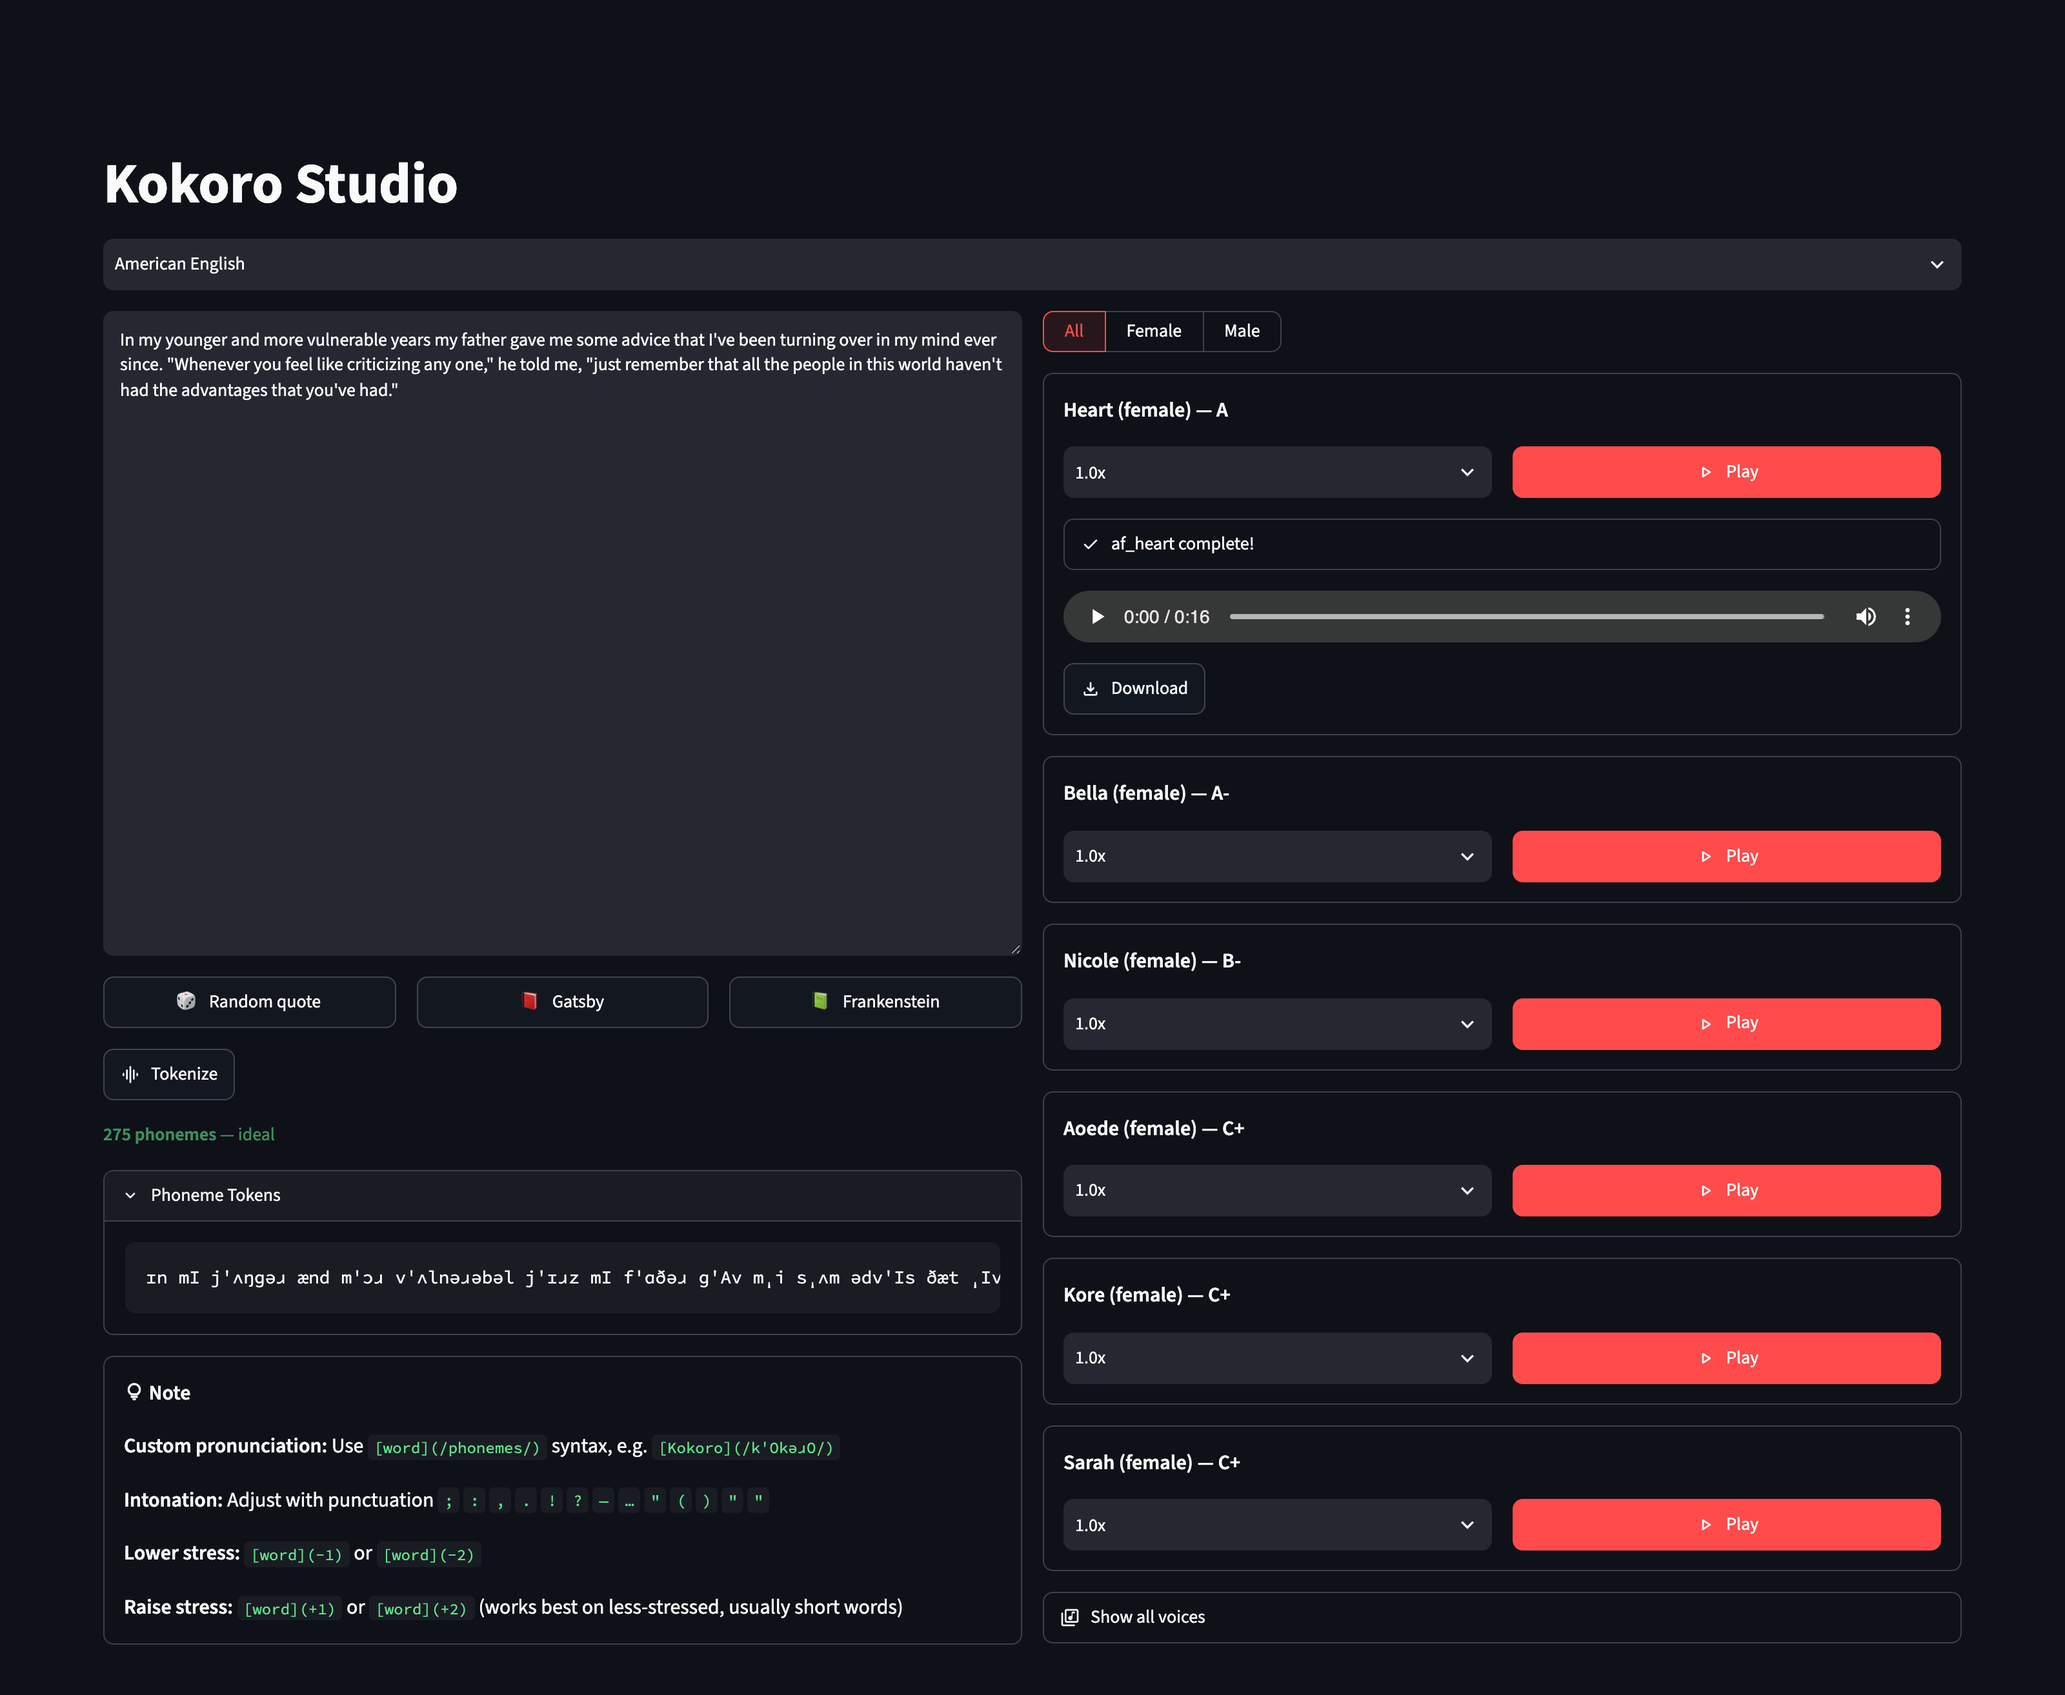
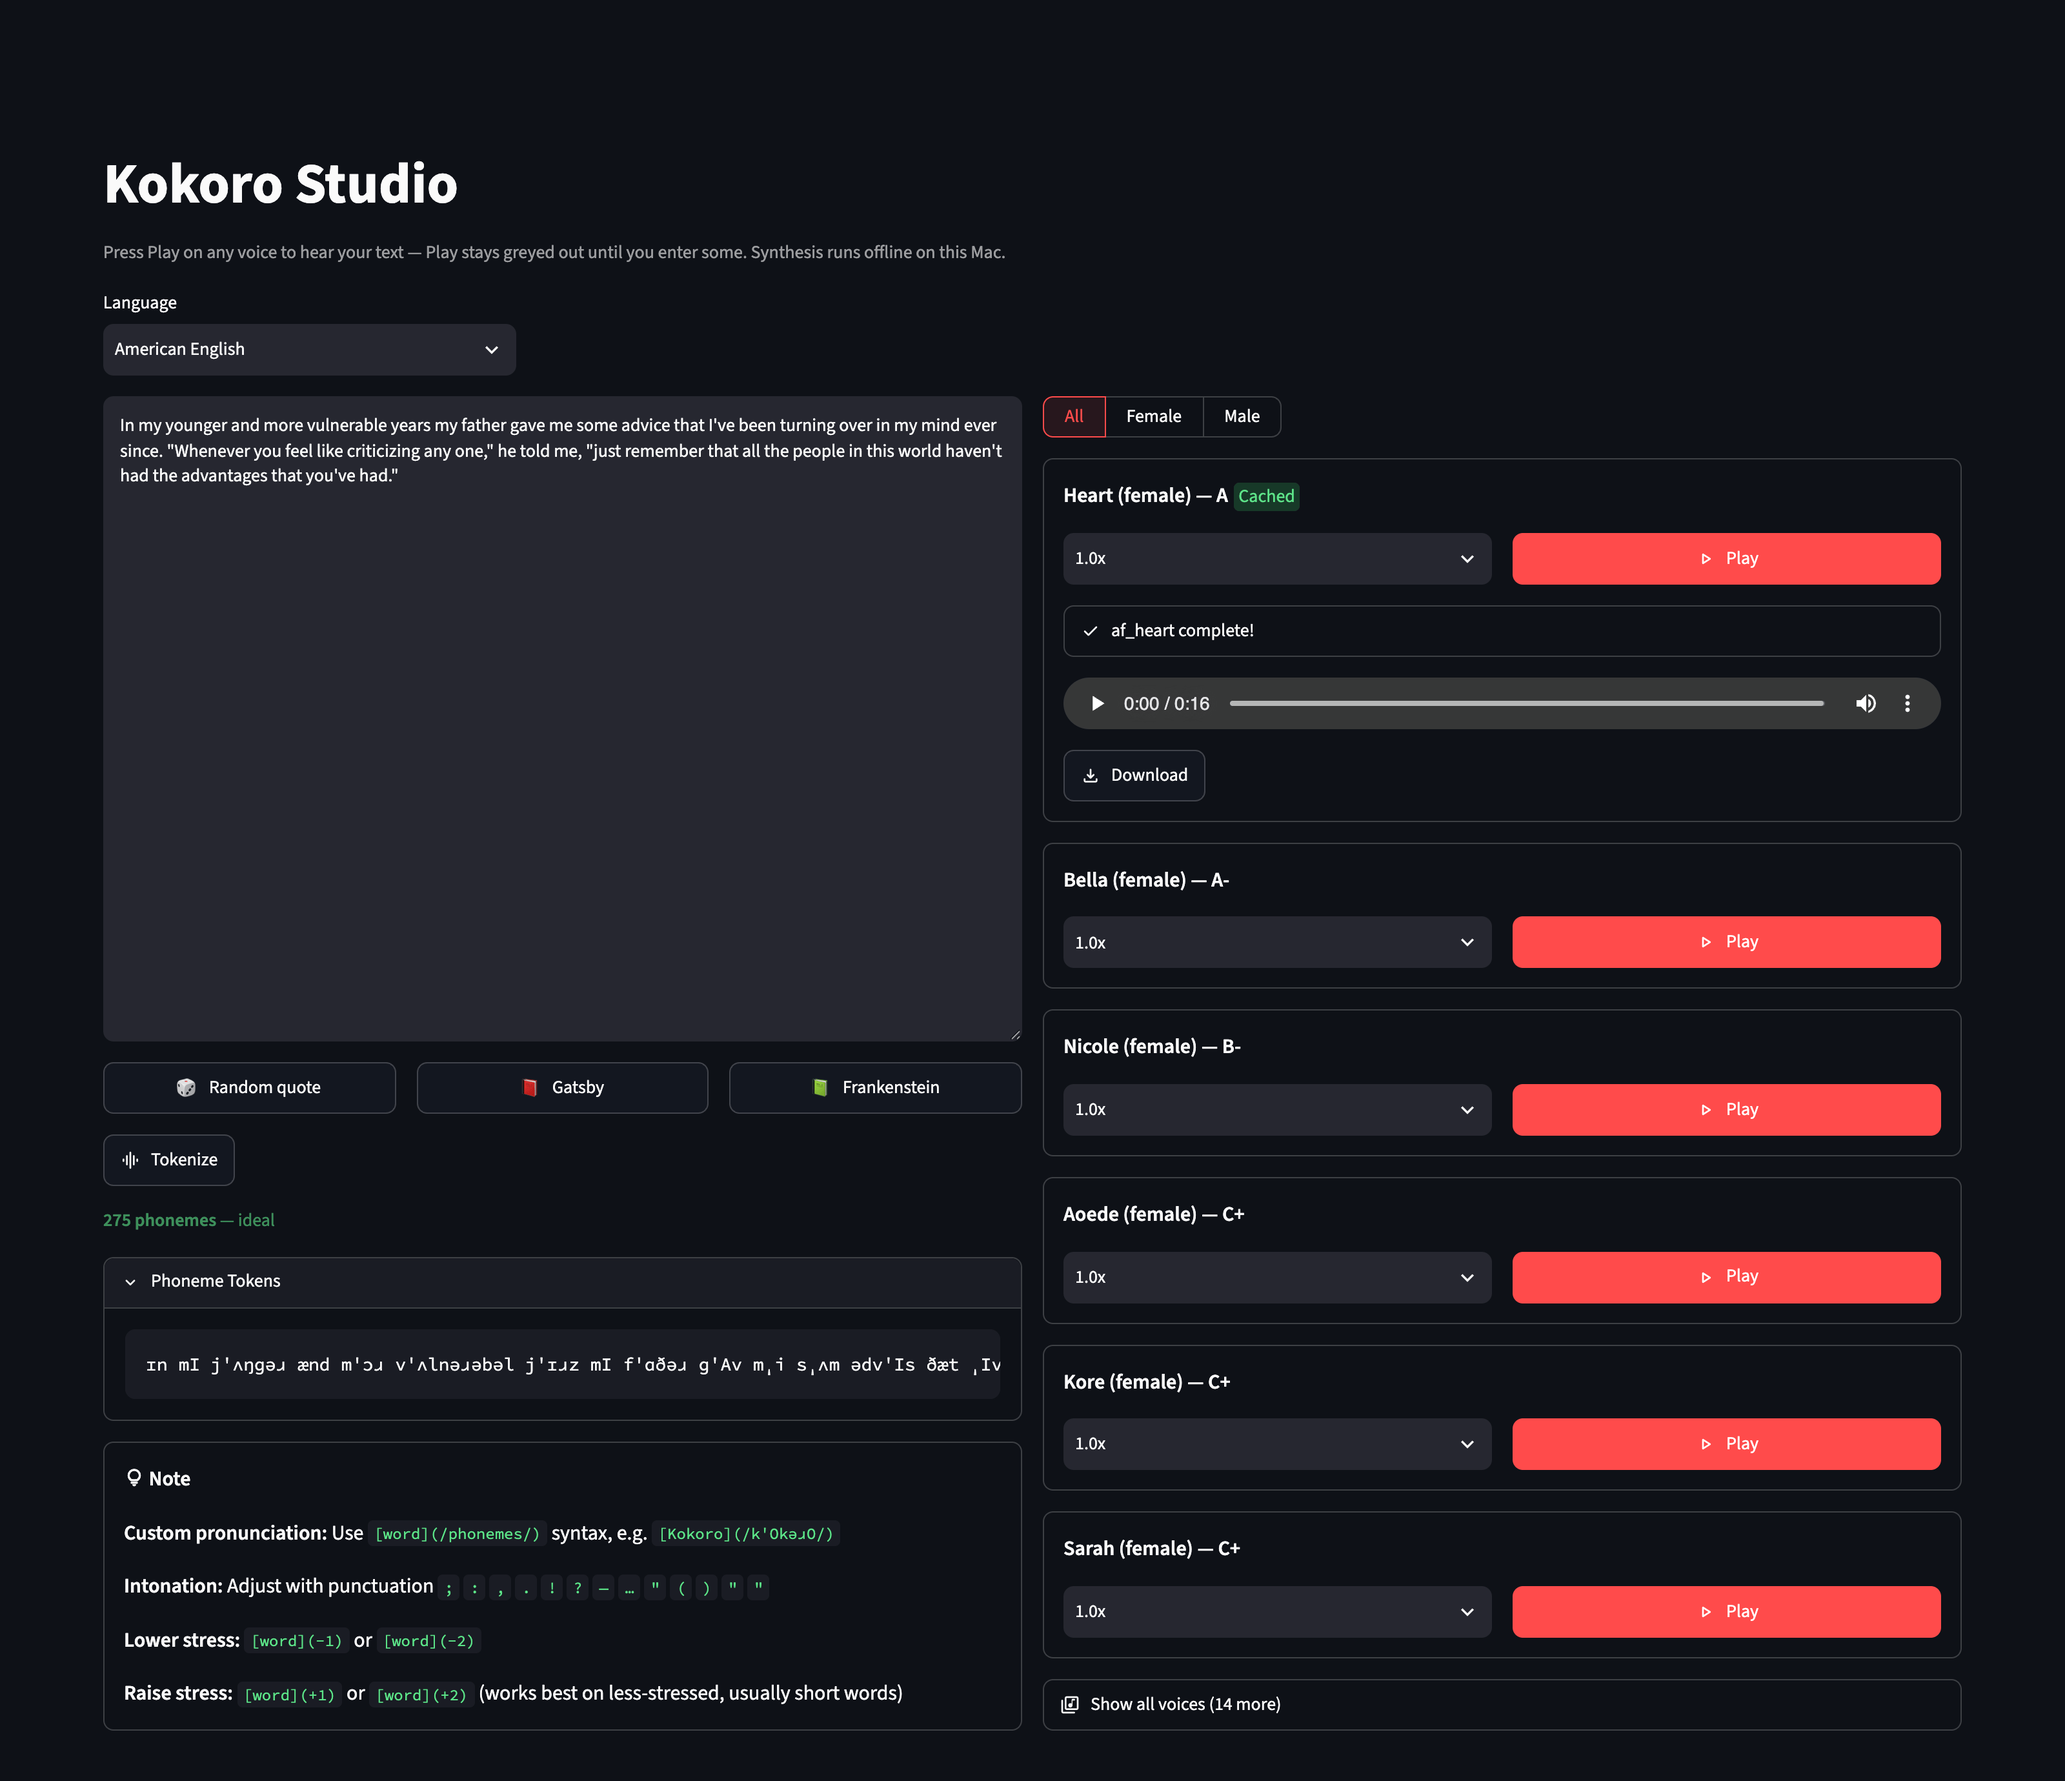
fix: show the Cached badge on the run that generates
render_voice_card emitted its title before the Play handler, so on the
run that produced a clip the card's own audio did not exist yet and the
badge was computed as absent. The one card that had just generated was
the only card without a marker, until some unrelated rerun corrected it.
This predates the badge: the speaker icon it replaced behaved the same
way, which is why the README hero never showed the marker either.

The title is now reserved with a bare st.container() at the top of the
fragment and written at the end, after the handler, with the condition
widened to count a clip stored during this run. st.container, not
st.empty: a placeholder clears at the top of each rerun, which would
unmount and remount the title on every fragment run.

test_badge_appears_on_the_run_that_generates was verified by reverting
the condition and confirming it fails on exactly this bug.

Hero recaptured, since the top card now carries the badge.

Changed region(s): [[0.0312, 0.0936, 0.9688, 0.9673], [0.0625, 0.8113, 0.4375, 0.9673]]

diff --git a/streamlit_app.py b/streamlit_app.py
@@ -465,17 +465,16 @@ def generate_one(
 @st.fragment
 def render_voice_card(voice: str, text: str, lang_code: str) -> None:
     with st.container(border=True):
+        # The title is reserved here and written at the end of the fragment. Its
+        # badge depends on whether this card has audio, and on the run that
+        # generates some, it does not yet — so emitting the title in place left
+        # the one card that had just produced a clip as the only card without a
+        # badge, until some unrelated rerun corrected it. `st.container`, not
+        # `st.empty`: a placeholder clears at the top of each rerun, which would
+        # unmount and remount the title on every fragment run.
+        title_slot = st.container()
         stale_key = _stale_cached_key(voice, text, lang_code)
         cached = st.session_state[stale_key] if stale_key is not None else None
-        # Appended, not prefixed: an icon in front shifted the voice name right by
-        # its own width the moment a card had audio, so a stacked column of six
-        # cards lost its left edge during exactly the A/B comparison the cache
-        # exists for. A badge also names the state rather than leaving a bare
-        # speaker glyph to be guessed at. "Cached", not "Ready": it fires when
-        # audio exists at *any* speed, including the case where the body below
-        # reads "speed changed".
-        badge = " :green-badge[Cached]" if cached is not None else ""
-        st.markdown(f"**{_format_voice(voice)}**{badge}")
         # Columns, not st.container(horizontal=True). A horizontal container
         # sizes children from their intrinsic width (`flex: 1 1 fit-content`),
         # which measured 358 px of selectbox against 306 px of button in a 680 px
@@ -542,6 +541,20 @@ def render_voice_card(voice: str, text: str, lang_code: str) -> None:
                 # Last-resort UI guard: any failure in one card must not take
                 # down the sibling cards, so it is surfaced in-place instead.
                 st.exception(e)
+        # Written into the slot reserved above, so it renders in title position
+        # while being computed after the Play handler — `key in st.session_state`
+        # only becomes true once this run's generation has stored a clip.
+        # Appended, not prefixed: an icon in front shifted the voice name right by
+        # its own width the moment a card had audio, so a stacked column of six
+        # cards lost its left edge during exactly the A/B comparison the cache
+        # exists for. A badge also names the state rather than leaving a bare
+        # speaker glyph to be guessed at. "Cached", not "Ready": it fires when
+        # audio exists at *any* speed, including the case where the body below
+        # reads "speed changed".
+        has_audio = cached is not None or key in st.session_state
+        badge = " :green-badge[Cached]" if has_audio else ""
+        with title_slot:
+            st.markdown(f"**{_format_voice(voice)}**{badge}")
         if key in st.session_state:
             wav = st.session_state[key]["wav"]
             st.audio(wav, format="audio/wav")

diff --git a/tests/test_streamlit_app.py b/tests/test_streamlit_app.py
@@ -768,10 +768,14 @@ class TestRenderVoiceCard:
 
     def test_renders_bordered_container(self) -> None:
         # Opened inside the fragment, not passed in: a shared container would
-        # make every card one fragment instance.
+        # make every card one fragment instance. assert_any_call, not
+        # assert_called_once_with: the card also opens a second, borderless
+        # container reserving the title slot (see test_badge_appears_on_the_run
+        # _that_generates), so pinning the count here would fail for a reason
+        # that has nothing to do with what this test is about.
         self._reset_mocks()
         render_voice_card("af_heart", "hello", "a")
-        st.container.assert_called_once_with(border=True)  # ty: ignore[unresolved-attribute]
+        st.container.assert_any_call(border=True)  # ty: ignore[unresolved-attribute]
 
     def test_renders_formatted_title(self) -> None:
         self._reset_mocks()
@@ -1068,6 +1072,26 @@ class TestRenderVoiceCard:
         expected_key = _cache_key("af_heart", "hello", 1.0, "a")
         assert st.session_state[expected_key] is fake_result
         del st.session_state[expected_key]
+
+    def test_badge_appears_on_the_run_that_generates(self) -> None:
+        # The title is written into a reserved slot after the Play handler
+        # precisely so this holds. Emitted in place, the badge was computed
+        # before generation, which left the one card that had just produced a
+        # clip as the only card without a badge until some unrelated rerun
+        # corrected it. Move the title write back above `if play_clicked:` and
+        # this fails.
+        self._reset_mocks()
+        st.button.return_value = True  # ty: ignore[unresolved-attribute]
+        fake_result = {"wav": _WAV, "voice": "af_heart"}
+        with (
+            patch("streamlit_app.load_pipeline"),
+            patch("streamlit_app.generate_one", return_value=fake_result),
+        ):
+            render_voice_card("af_heart", "hello", "a")
+        st.markdown.assert_called_once_with(  # ty: ignore[unresolved-attribute]
+            "**Heart (female) — A** :green-badge[Cached]"
+        )
+        del st.session_state[_cache_key("af_heart", "hello", 1.0, "a")]
 
     def test_click_handles_generate_error(self) -> None:
         self._reset_mocks()

diff --git a/CLAUDE.md b/CLAUDE.md
@@ -126,7 +126,7 @@ Only the entries with a non-obvious contract are listed; the rest of `streamlit_
 - `_next_audio_seq` — monotonic counter from `st.session_state["_audio_seq"]`, stamped onto each `VoiceResult` at write time so cache ordering never relies on `st.session_state` iteration order (a hash-ordered set in real Streamlit, not insertion order).
 - `_stale_cached_key` — key of the most recently generated audio for a `(voice, text, lang)` regardless of speed (highest `seq`), or `None`. Drives the cached badge, the stale-preview player, and the protect-map registration. `_find_stale_cached_audio` is a thin wrapper returning that key's value, retained for its unit tests (production reads the value inline).
 - `_evict_old_audio` — caps the session-state cache at `AUDIO_CACHE_LIMIT` (20), deleting lowest-`seq` first. Takes an optional `protect` set: the main body resets `st.session_state["_displayed_card_keys"]` (a `voice → displayed key` dict) each full rerun and every card's fragment writes the key it is actually showing, so a fragment's eviction can't orphan a sibling card's visible player — including a stale-preview player at another speed. **`protect` orders the queue, it does not remove keys from it**: unprotected keys go first, displayed ones only if the cap still isn't met. An absolute veto is only safe while no language ships more than `AUDIO_CACHE_LIMIT` voices, since each card protects one key — American English has exactly 20 against a limit of 20, so one voice added upstream would leave nothing evictable and silently turn the cap into one clip per voice. (`TestEvictOldAudio.test_cap_still_holds_when_every_key_is_protected`)
-- `render_voice_card` — `@st.fragment`, so a Play or speed interaction reruns only that card. It opens its own `st.container(border=True)` **inside the function**; never pass a pre-built container in, or the cards share a fragment instance. Its speed selectbox carries `persist_state="session"`, without which a card behind the collapsed expander loses its speed (see UI below). It plays and serves `VoiceResult["wav"]` directly and sets `on_click="ignore"` on the Download, so a click neither re-encodes nor reruns the fragment.
+- `render_voice_card` — `@st.fragment`, so a Play or speed interaction reruns only that card. It opens its own `st.container(border=True)` **inside the function**; never pass a pre-built container in, or the cards share a fragment instance. The **title is reserved with a bare `st.container()` at the top and written at the end**, because its badge depends on whether the card has audio and on the generating run it does not yet — emitted in place, the one card that had just produced a clip was the only card without a badge until an unrelated rerun fixed it. `st.container`, not `st.empty`: a placeholder clears at the top of each rerun, remounting the title every fragment run. (`TestRenderVoiceCard.test_badge_appears_on_the_run_that_generates`, verified by reverting the condition and watching it fail.) Its speed selectbox carries `persist_state="session"`, without which a card behind the collapsed expander loses its speed (see UI below). It plays and serves `VoiceResult["wav"]` directly and sets `on_click="ignore"` on the Download, so a click neither re-encodes nor reruns the fragment.
 - `_split_voices_for_display` — returns `(visible, hidden)`, top `top_n` (default 6) visible. A `selected` voice landing in the tail is pinned into the visible section — a path production never takes (the app always passes `None`), kept for `TestSplitVoicesForDisplay`.
 - `_estimate_phonemes` — stripped char count × `_PHONEME_MULTIPLIERS` (`a`/`b` 0.85, `e`/`f`/`p` 0.90, `h`/`i` 1.00, `j` 1.40, `z` 2.00; unknown code → 1.0). Used by the length caption before any tokenization has run.
 - `_phoneme_band` — `(color, label)` for a phoneme count, per VOICES.md guidance: `<20` red "very short", `20–99` orange "short", `100–399` green "ideal", `400–509` orange "long", `≥510` red "will be chunked".
